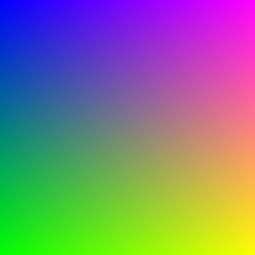
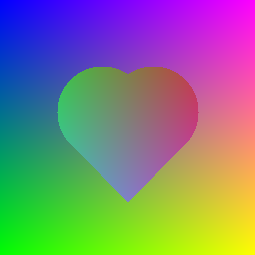
wk9

Changed region(s): [[0.2196, 0.2471, 0.7961, 0.7961]]

diff --git a/HW5opt/pretty_pic.py b/HW5opt/pretty_pic.py
@@ -5,8 +5,63 @@ Created on Fri Nov 18 13:07:29 2022
 @author: Charl
 """
 import images
-pic = [[(y,x,255-x) for y in range (255)] for x in range(255*2//2)]
 
+import math
 
-#print(pic[0][5])
-images.save(pic,"myPic.png")
+def pretty_pic_maker(sizeX,sizeY):
+
+    
+    #change so size can be adjustable
+    pic = [[(y,x,sizeX-x) for y in range (sizeY)] for x in range(sizeX)]
+    
+    
+    radius = 45
+    centerPicX = sizeX // 2
+    centerPicY = sizeY // 2
+    centerX = 2 * sizeX // 5
+    centerY = sizeY // 2 -15
+    radiusSq = radius**2
+    tanPoint = centerX - radius//2 - 10
+    heartMnR = 255
+    heartMxR = 255
+    heartMnG = 50
+    heartMxG = 150
+    heartMnB = 50
+    heartMxB = 150
+    gFactor = centerX - radius
+    
+    
+    
+    for x in range(centerX - radius, sizeX//2 + 1):
+        upperY = int(-math.sqrt((radiusSq-(x-centerX)**2)) + centerY)
+        lowerY = int(math.sqrt((radiusSq-(x-centerX)**2)) + centerY)
+        altX = sizeX - x
+        
+        for y in range(upperY,lowerY+1):
+            pic[y][x] = (x,sizeX-x,y)
+            pic[y][altX] = (altX,sizeX-altX,y)
+        
+        if x == tanPoint:
+            tanGrad = -(x-centerX)/(lowerY-centerY)
+            tanC = lowerY - tanGrad*x
+        
+        if x > tanPoint:
+            lowerTanY = int(tanGrad*x+tanC)
+            for y in range(lowerY,lowerTanY+1):
+                r = heartMnR
+                
+                pic[y][x] = (x,sizeX-x,y)
+                pic[y][altX] = (altX,sizeX-altX,y)
+        
+        #equation for tangent to circle
+        #change colour to be pretty
+        
+        
+    
+    #print(pic[0][5])
+    images.save(pic,"myPic.png")
+    
+sizeX = 255
+sizeY = 255
+
+pretty_pic_maker(sizeX,sizeY)

diff --git a/HW3opt/program01.py b/HW3opt/program01.py
@@ -87,6 +87,8 @@ def ex1(text_file, min_len, max_len, n):
         for posn in range(len(strIn)-width+1):
             key = strIn[posn:posn+width]
             strDict[key] = strDict.get(key,0) + 1
+    # 
+    
     
     #search output0 for value
     #if not found append value to output0 and [key] to output1
@@ -107,6 +109,8 @@ def ex1(text_file, min_len, max_len, n):
     #         output0.append(value)
     #         output1.append([key])    
     
+    
+    
     output0 = list(set(strDict.values()))
     output0.sort()
     output0 = output0[-n:]
@@ -115,26 +119,18 @@ def ex1(text_file, min_len, max_len, n):
     for key, value in strDict.items():
         if value >= limit:
             output1[output0.index(value)].append(key)
-    
-    #print( strings)
-    #print("time to build output 0 & 1: ", time.time() - t)
-    #t = time.time()
+            
     for line in output1:
         line.sort()
+
+    return list(zip(output0,output1))    
+        
     
-    # output.sort()
-    # output = output[-n:]
-    #print(time.time() - t)
-    #t = time.time()
-    
-    #print(time.time() - t)
-    #t = time.time()
-    return list(zip(output0,output1))
 
 if __name__ == '__main__':
     
     #t= time.time()
-    #output = ex1('ft1.txt', 2, 4, 20)
+    output = ex1('ft1.txt', 2, 4, 20)
     #print(ex1('ft1.txt', 2, 4, 20))
     #print(ex1('ft2.txt', 2, 5, 10))
     #print(ex1("ft100.txt", 23, 49, 17))

diff --git a/HW4-req/program01.py b/HW4-req/program01.py
@@ -56,22 +56,17 @@ def most_frequent_chars(filename: str) -> str:
             currFile = fileRef.readline().strip()
             
             for lines in fileRef:
-                currWord = lines.strip()
-                
-                if ' ' in currWord or '\t' in currWord:
-                    wordList.extend(currWord.replace('\t', ' ').split())
-                elif currWord != '':
-                    wordList.append(currWord)
+                wordList.extend(lines.split())
                     
         if currFile == filename:
             break
-    
+        
     wordList.sort(key = len, reverse = True)
     return wordlist_to_string(wordList)
 
 
 def wordlist_to_string(wordList):
-    #go through words and add them to dic, or add 1 to count in dic
+    #go through each letter of each word and add it to dic, or add 1 to count in dic
     #get highest counts from dictionary
     #get earliest letter from highest counts
     #append letter to string
@@ -87,7 +82,7 @@ def wordlist_to_string(wordList):
             pass
         
         maxCount = max(wordDic.values())
-        output += min([key for key, value in wordDic.items() if value == maxCount])
+        output += min([letter for letter, lCount in wordDic.items() if lCount == maxCount])
         
     return output
 

diff --git a/HW5opt/program01.py b/HW5opt/program01.py
@@ -80,6 +80,8 @@ def ex1(text_file, pngfile):
     blk = (0,0,0)
     wht = (255,255,255)
     
+    
+    
     picArr = [[blk] * maxW for i in range(maxH)]
     grnArr = []
 
@@ -117,7 +119,7 @@ def ex1(text_file, pngfile):
     for y,x in grnArr:
         if (picArr[y][x] == grn and
                (picArr[y+1][x+1] == blk or picArr[y-1][x-1]  == blk or 
-                picArr[y+1][x-1]  == blk or picArr[y-1][x+1]  == blk or 
+                picArr[y+1][x-1] == blk or picArr[y-1][x+1]  == blk or 
                 picArr[y+1][x]  == blk or picArr[y-1][x] == blk or
                 picArr[y][x+1]  == blk or picArr[y][x-1]  == blk)):
             

diff --git a/10/program.py b/10/program.py
@@ -43,7 +43,7 @@ def es10(ftext,k):
         output += currLtr    
     return output
 
-es10('ft9.txt',3)
+print(es10('ft9.txt',3))
 es10('ft9.txt', 3)
 es10('ft9.txt', 6)
-es10('ft9.txt', 10)
+print(es10('ft9.txt', 10))
